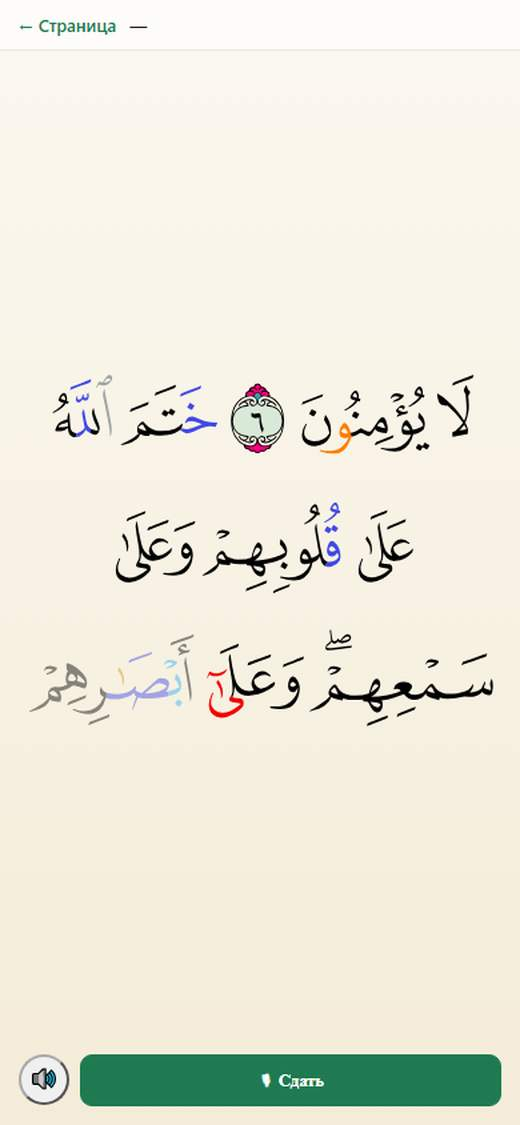
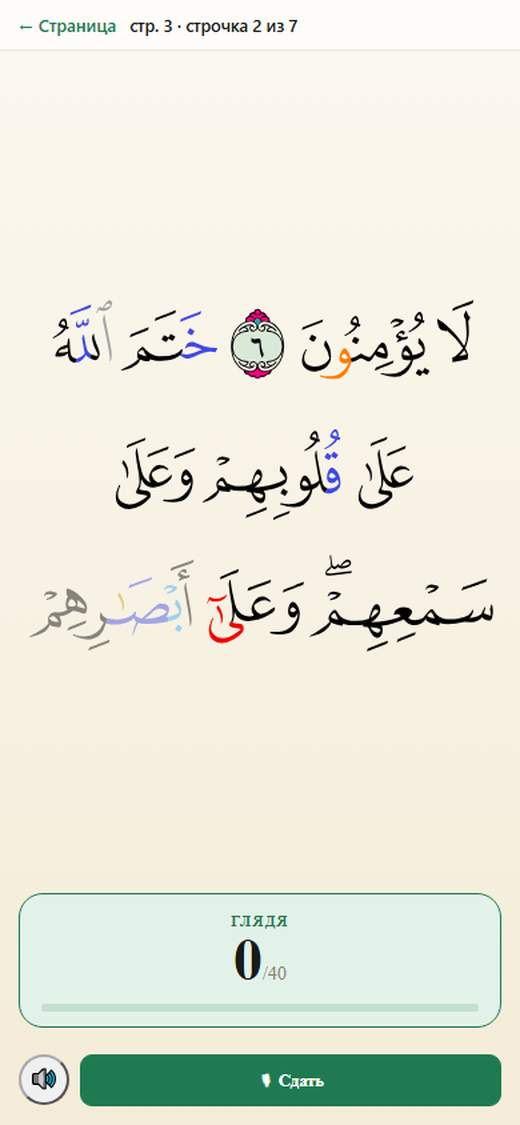
fix(stand): состояние сцены до загрузки страницы, сцена «прогресс 40+40» снова живая
- Приложение читает указатель заучивания и долги один раз на старте; state()
  из сцены на них не влиял, и progress годами снимал «С какой строчки начинаем?».
  Теперь frame ставит PRE_STATE до загрузки, каждая сцена начинает с чистого.
- Стена пересдачи (13.09) не пускала стенд на этап 2 - для stage2 долг
  закрывается повторной записью той же единицы.
- Пересняты progress, big, trainer_answer; остальные без изменений.

Claude-Session: https://claude.ai/code/session_01De3FjKiq35RYHaNaM9bCca

diff --git a/scripts/shoot_onboarding.py b/scripts/shoot_onboarding.py
@@ -86,6 +86,15 @@ SCENES = ["dash", "mushaf", "pick", "pointer", "big", "rec", "progress", "subs",
           "u_door", "u_queue", "u_open", "u_marks", "u_comment", "u_verdict",
           "u_done", "u_students"]
 
+# Какое состояние стенда нужно сцене ещё до загрузки страницы (см. frame);
+# state(...) внутри сцены остаётся как явная пометка, но уже не решает.
+PRE_STATE = {
+    "progress": "stage2",
+    "trainer_start": "trainer_fresh",
+    "trainer_q": "words", "trainer_daily": "words", "trainer_range": "words",
+    "trainer_answer": "words", "mywords": "words",
+}
+
 CHROME_CANDIDATES = [
     os.environ.get("CHROME"),
     r"C:\Program Files\Google\Chrome\Application\chrome.exe",
@@ -189,7 +198,16 @@ def set_state(mode):
                 "INSERT INTO mufradat_daily_answered_words (user_id, date, word_id, correct) "
                 "VALUES (?,?,?,?)",
                 [(STUDENT, _mufradat._today(), 900000 + i, 1 if i < 7 else 0) for i in range(12)])
+    # Стена пересдачи (13.09.2026, ffd5d29): с открытой пересдачей студент не
+    # пройдёт на этап 2, и сцена progress уезжала в «Работу с устазом». Для
+    # stage2 долг закрываем повторной записью той же единицы (message_id 199),
+    # остальным сценам её убираем - у них пересдача должна быть открыта.
+    with sqlite3.connect(db.DB) as conn:
+        conn.execute("DELETE FROM voice_submissions WHERE chat_id=? AND message_id=199", (CHAT,))
     if mode == "stage2":
+        user = db.find_user_by_phone(STUDENT)
+        db.save_voice_submission(user["id"], db.get_group(CHAT)["id"], CHAT, 199, db.get_date(),
+                                 file_id="dev199", hifz_page=3, hifz_line=2, hifz_stage=1)
         mushaf_words.set_hifz_pointer(STUDENT, 3, 0, 2)
         if mushaf_words.get_hifz_progress(STUDENT, 3, 2, 0) == 0:
             mushaf_words.add_hifz_progress(STUDENT, 3, 2, 0, 24)
@@ -333,7 +351,7 @@ SCENE_SCRIPT = """
       spot('#hifz-progress-chips');
     },
 
-    subs: async function () { $('dash-subs').click(); await wait(1800); },
+    subs: async function () { await state('fresh'); $('dash-subs').click(); await wait(1800); },
 
     // --- повторение ---
     // Повторение идёт с начала Аль-Бакары - показываем её начало, а не
@@ -362,6 +380,7 @@ SCENE_SCRIPT = """
     },
 
     look: async function () {
+      await state('fresh');
       $('dash-subs').click(); await wait(1800);
       var b = document.querySelector('[data-look]');
       if (b) { b.click(); await wait(1600); }
@@ -602,6 +621,12 @@ def build_app():
         h = request.query.get("h", "844")
         src = "/?bot=male"
         if request.query.get("scene"):
+            # Состояние ставим ДО загрузки приложения (15.09.2026): указатель
+            # заучивания и долги оно читает один раз на старте, и state() из
+            # сцены на них уже не влиял - сцена progress годами снимала
+            # «С какой строчки начинаем?» вместо этапа 2. Заодно каждая сцена
+            # начинает с чистого состояния, а не с хвоста предыдущей.
+            set_state(PRE_STATE.get(request.query["scene"], "fresh"))
             src += "&scene=" + request.query["scene"]
         if request.query.get("as"):
             src += "&as=" + request.query["as"]

diff --git a/logs/terminal/2026-09-15.md b/logs/terminal/2026-09-15.md
@@ -71,3 +71,11 @@
   12/7 для сцен тренажёра и ноль остальным, TMP-база стенда пересоздана.
   Подписи trainer_q/answer/daily обновлены под два порога.
 - Локализация ky/uz новых строк — пользователь отложил («пока не сегодня»).
+- Полный проход по онбордингу (вопрос пользователя «все блоки перепроверил?» — нет,
+  сначала смотрел только 5 из 29). Найдено: сцена progress была сломана ещё до
+  сегодня (в репо лежал экран «С какой строчки начинаем?» вместо «Сколько сделал
+  сегодня?») — стена пересдачи (13.09) не пускала на этап 2, плюс приложение
+  читает указатель один раз на старте, и state() из сцены на него не влиял.
+  Стенд: PRE_STATE в frame — состояние ставится ДО загрузки страницы, каждая
+  сцена с чистого листа; для stage2 пересдача закрывается повторной записью
+  (message_id 199). Остальные 24 снимка и подписи сверены — совпадают.
